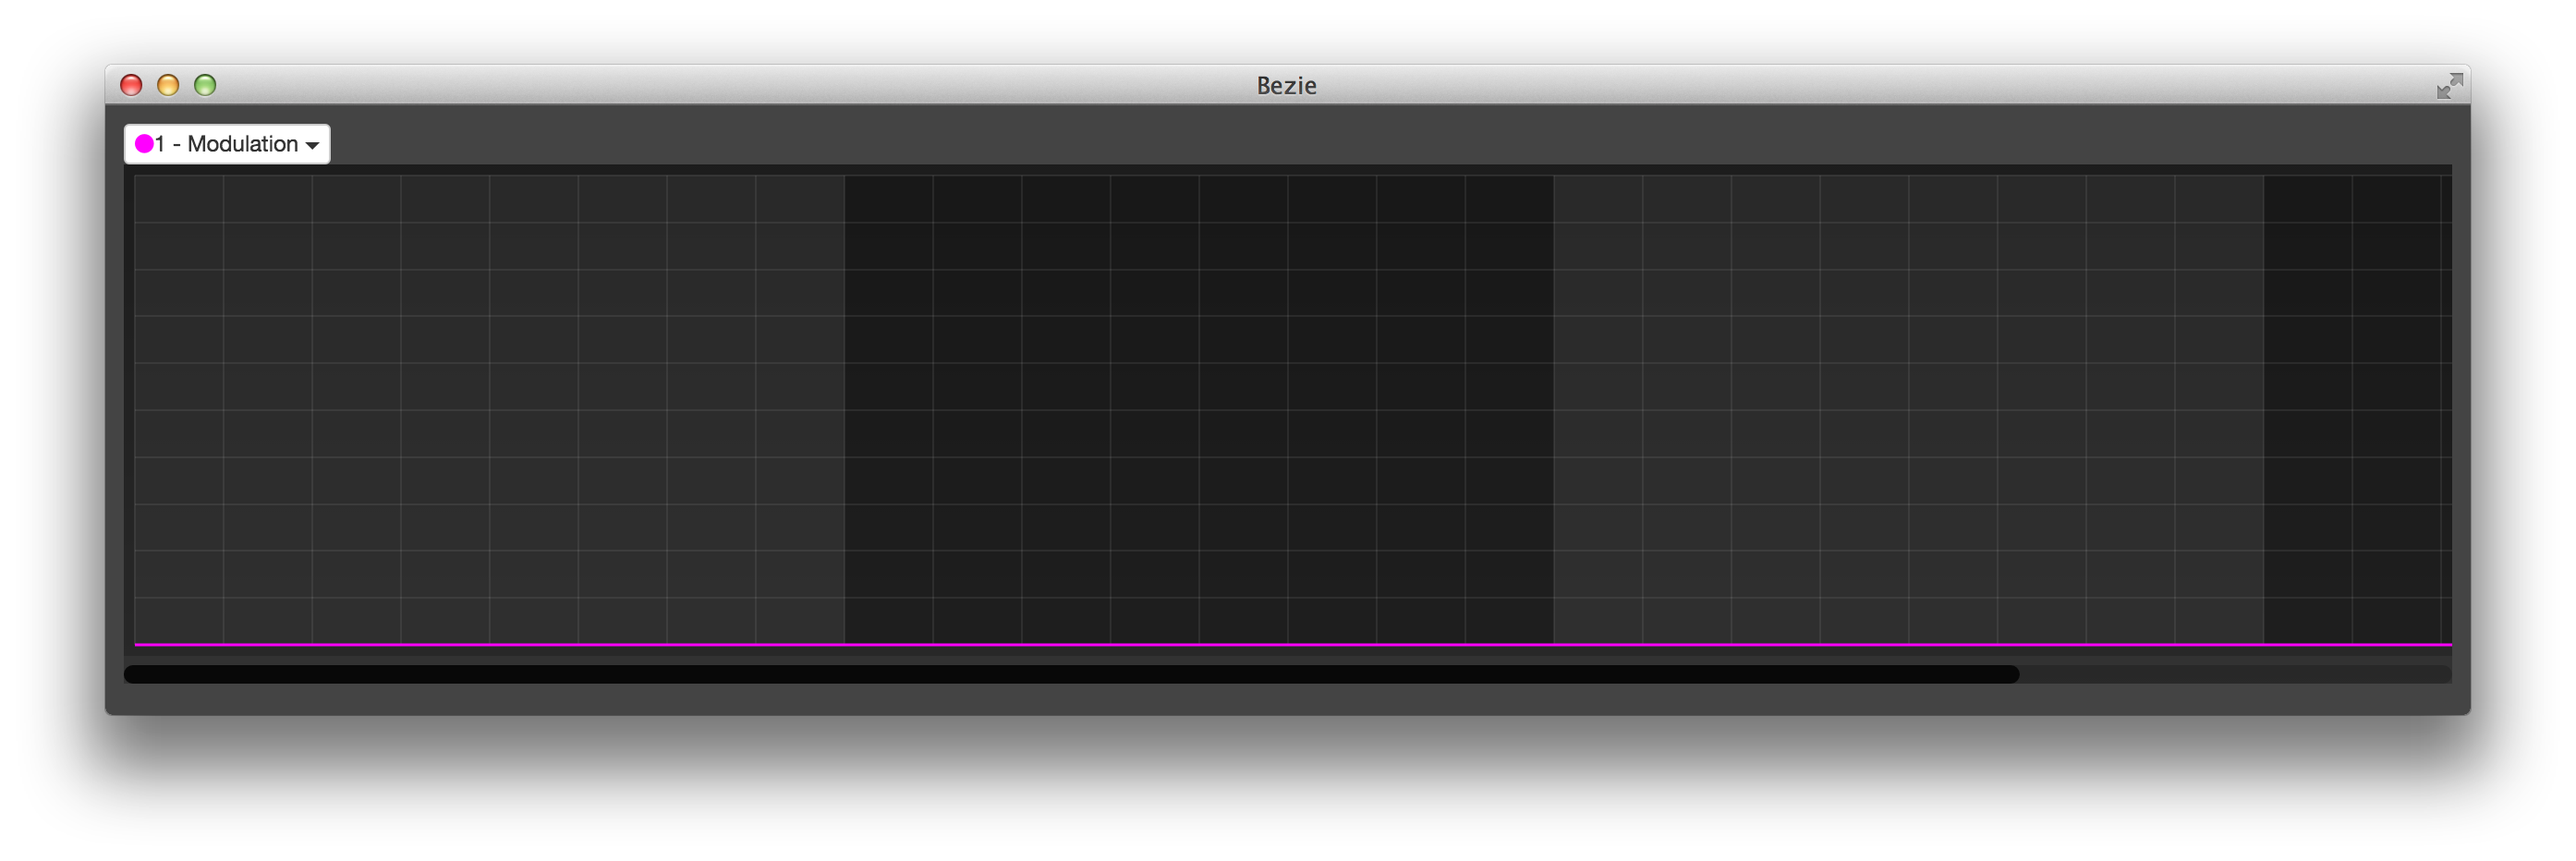
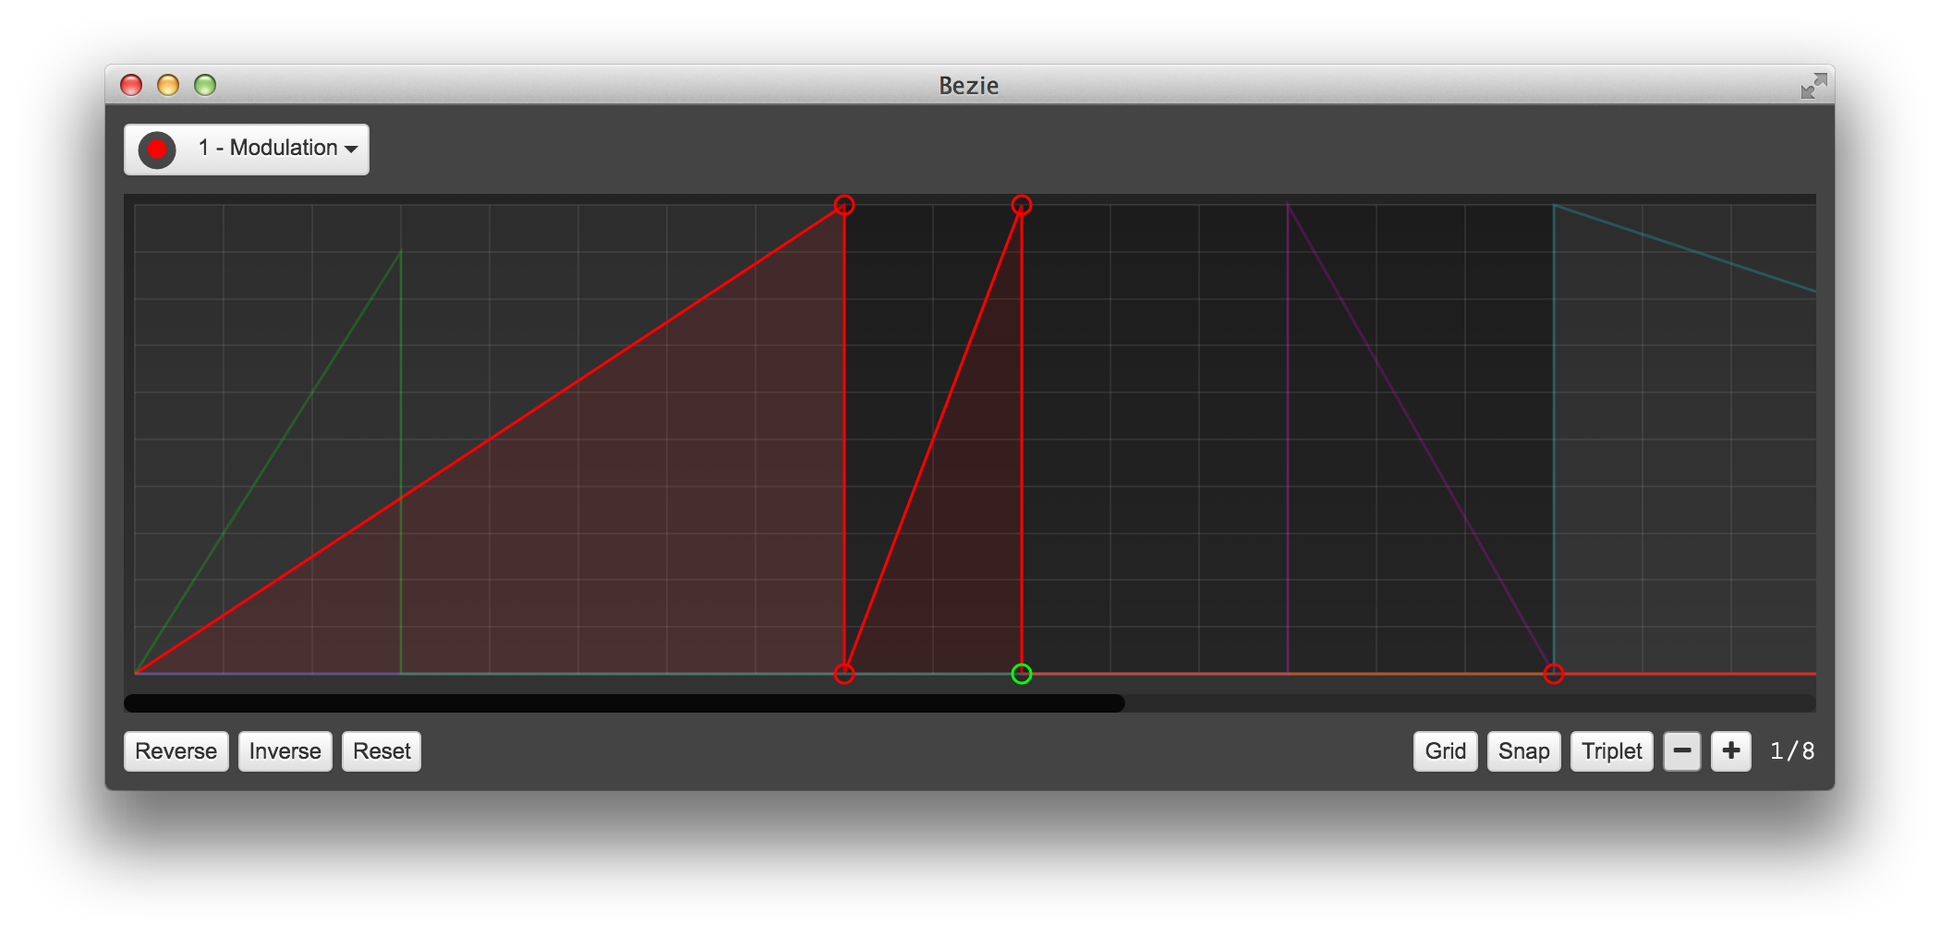
added new screenshot, updated styles

diff --git a/app/components/bezie.js b/app/components/bezie.js
@@ -34,13 +34,10 @@ class Bezie extends Component {
                             <Button bsSize="xsmall"><i className="fa fa-minus" /></Button>
                             <Button bsSize="xsmall"><i className="fa fa-plus" /></Button>
                             <span
-                                className="push-left"
-                                style={{
-                                    fontFamily: 'monospace',
-                                    lineHeight: '22px',
-                                }}
+                                className="push-left noselect"
+                                style={{ fontFamily: 'monospace', lineHeight: '22px' }}
                             >
-                                1/4
+                                1/8
                             </span>
                         </ButtonToolbar>
                     </div>

diff --git a/app/constants/index.js b/app/constants/index.js
@@ -2,10 +2,10 @@ export const CONTROL_MAX = 127
 export const PPQ = 96
 
 export const colors = [
+    '#FF0000',
     '#00FFFF',
     '#FF00FF',
     '#00FF00',
-    '#FF0000',
     '#FFFF00',
     '#9D00FF',
 ]

diff --git a/app/app.global.css b/app/app.global.css
@@ -84,3 +84,8 @@ circle.curve {
 .btn i {
     text-shadow: none;
 }
+
+.noselect {
+    -webkit-user-select: none;
+    cursor: default;
+}
